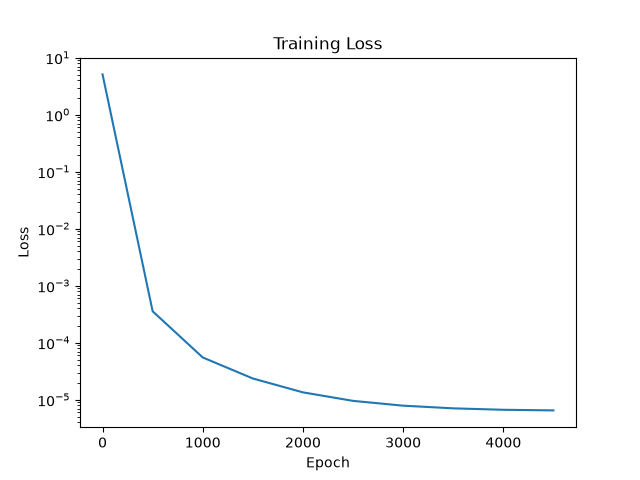
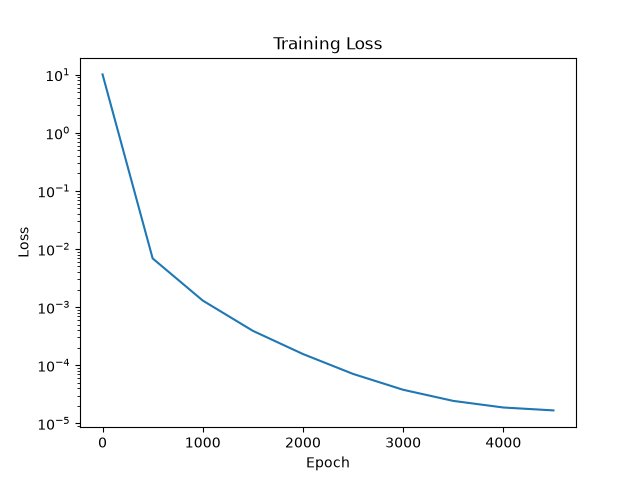
Tuned weights

diff --git a/pinn_heat.py b/pinn_heat.py
@@ -77,9 +77,9 @@ def initial_loss(params, x, t):
     return jnp.mean((u_pred - u_exact)**2)
 
 # Weighted loss – tune these weights if needed
-PDE_WEIGHT = 1.0
+PDE_WEIGHT = 5.0
 BC_WEIGHT = 1.0
-IC_WEIGHT = 10.0
+IC_WEIGHT = 1.0
 
 def loss_fn(params, x_int, t_int, x_bc, t_bc, x_ic, t_ic):
     return (PDE_WEIGHT * pde_loss(params, x_int, t_int) +
